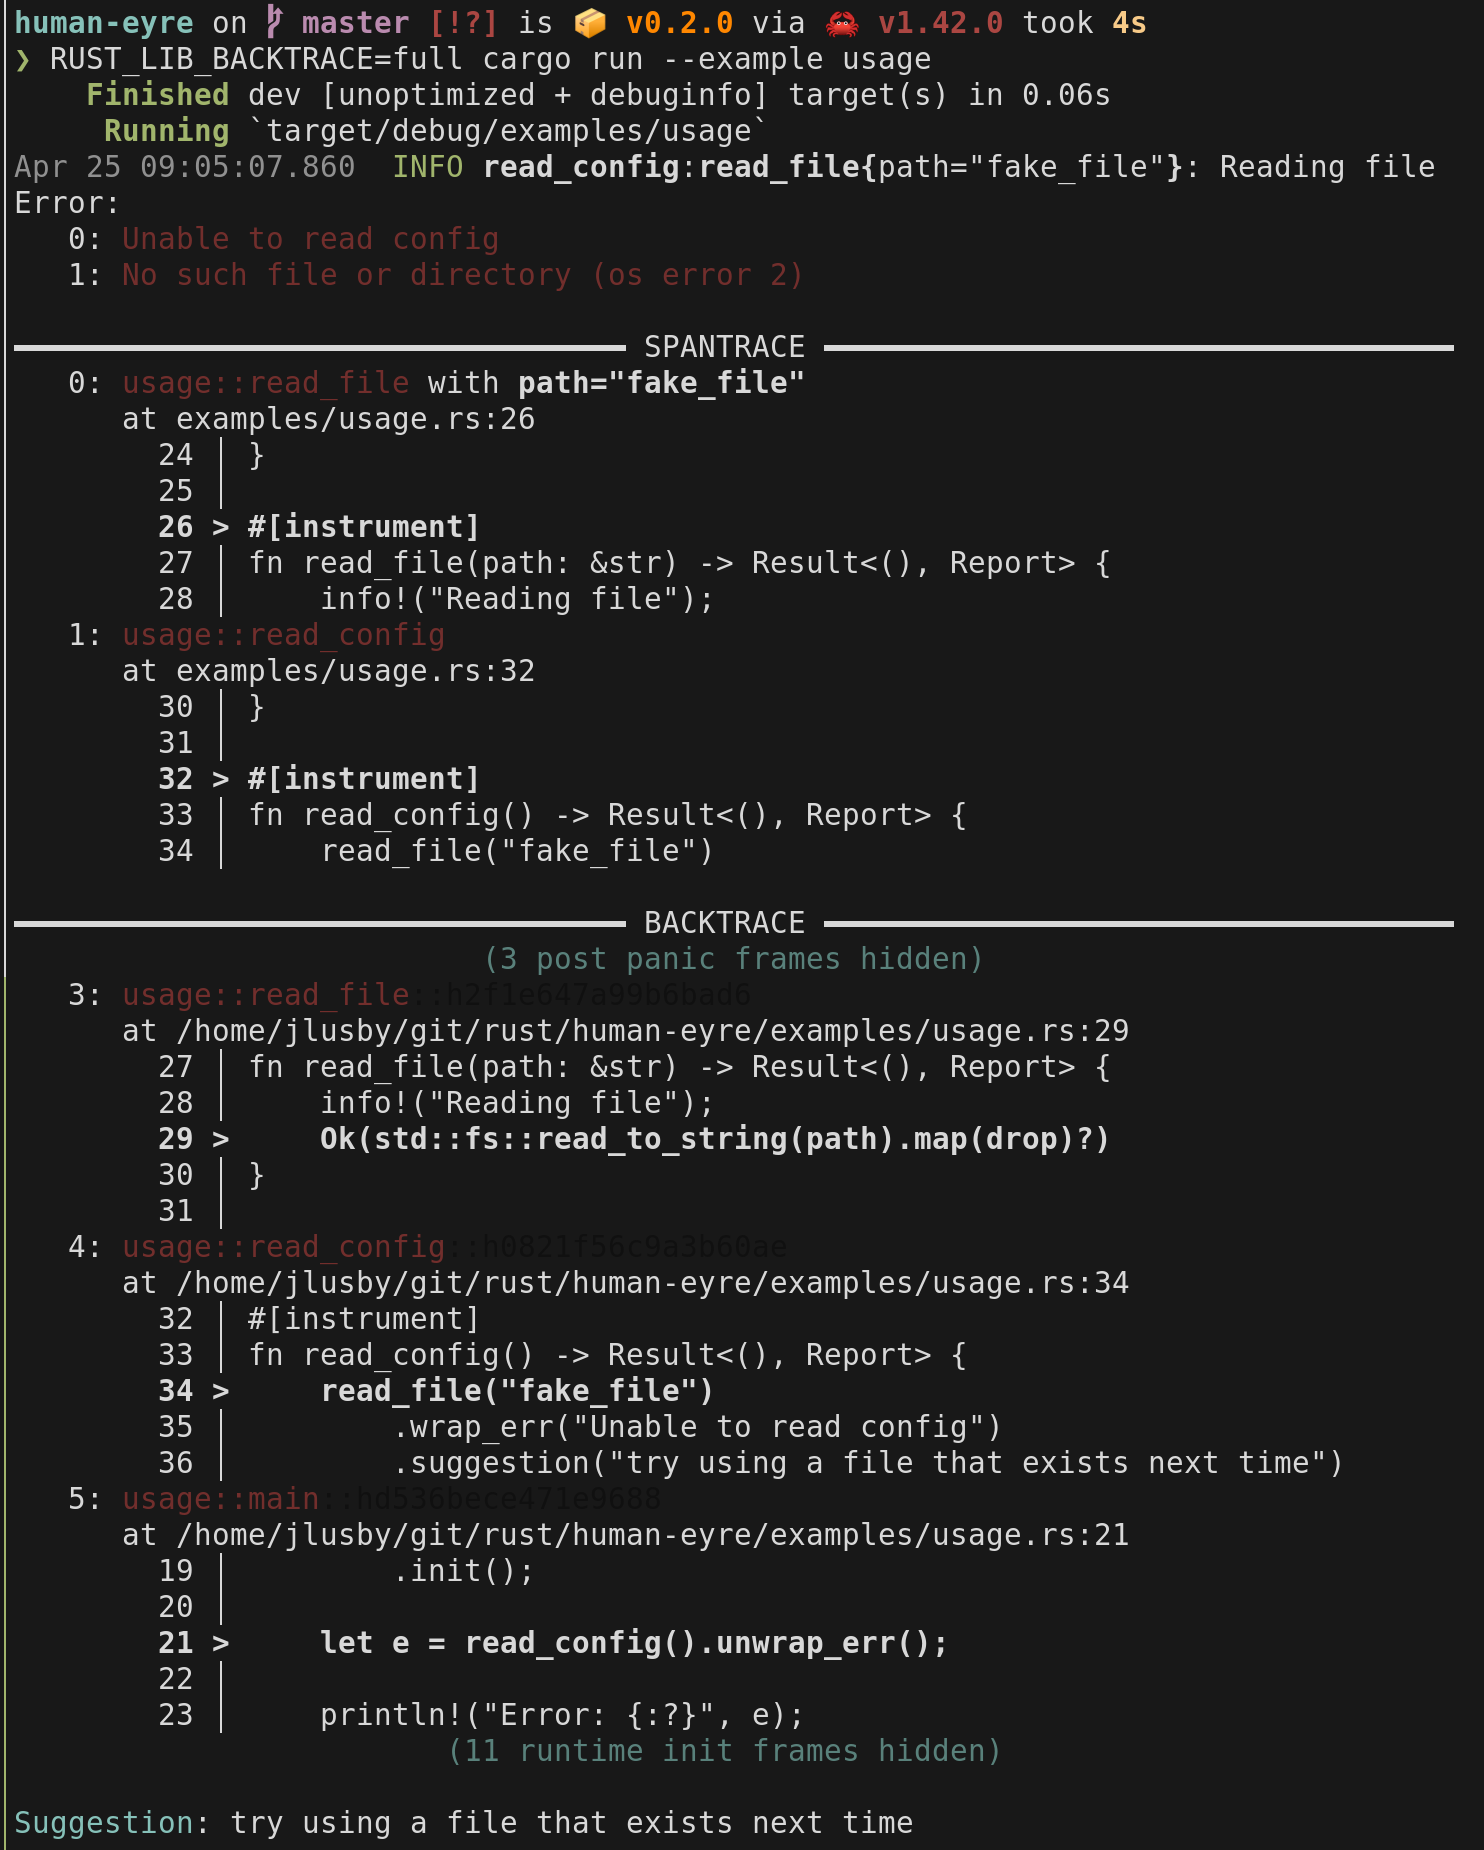
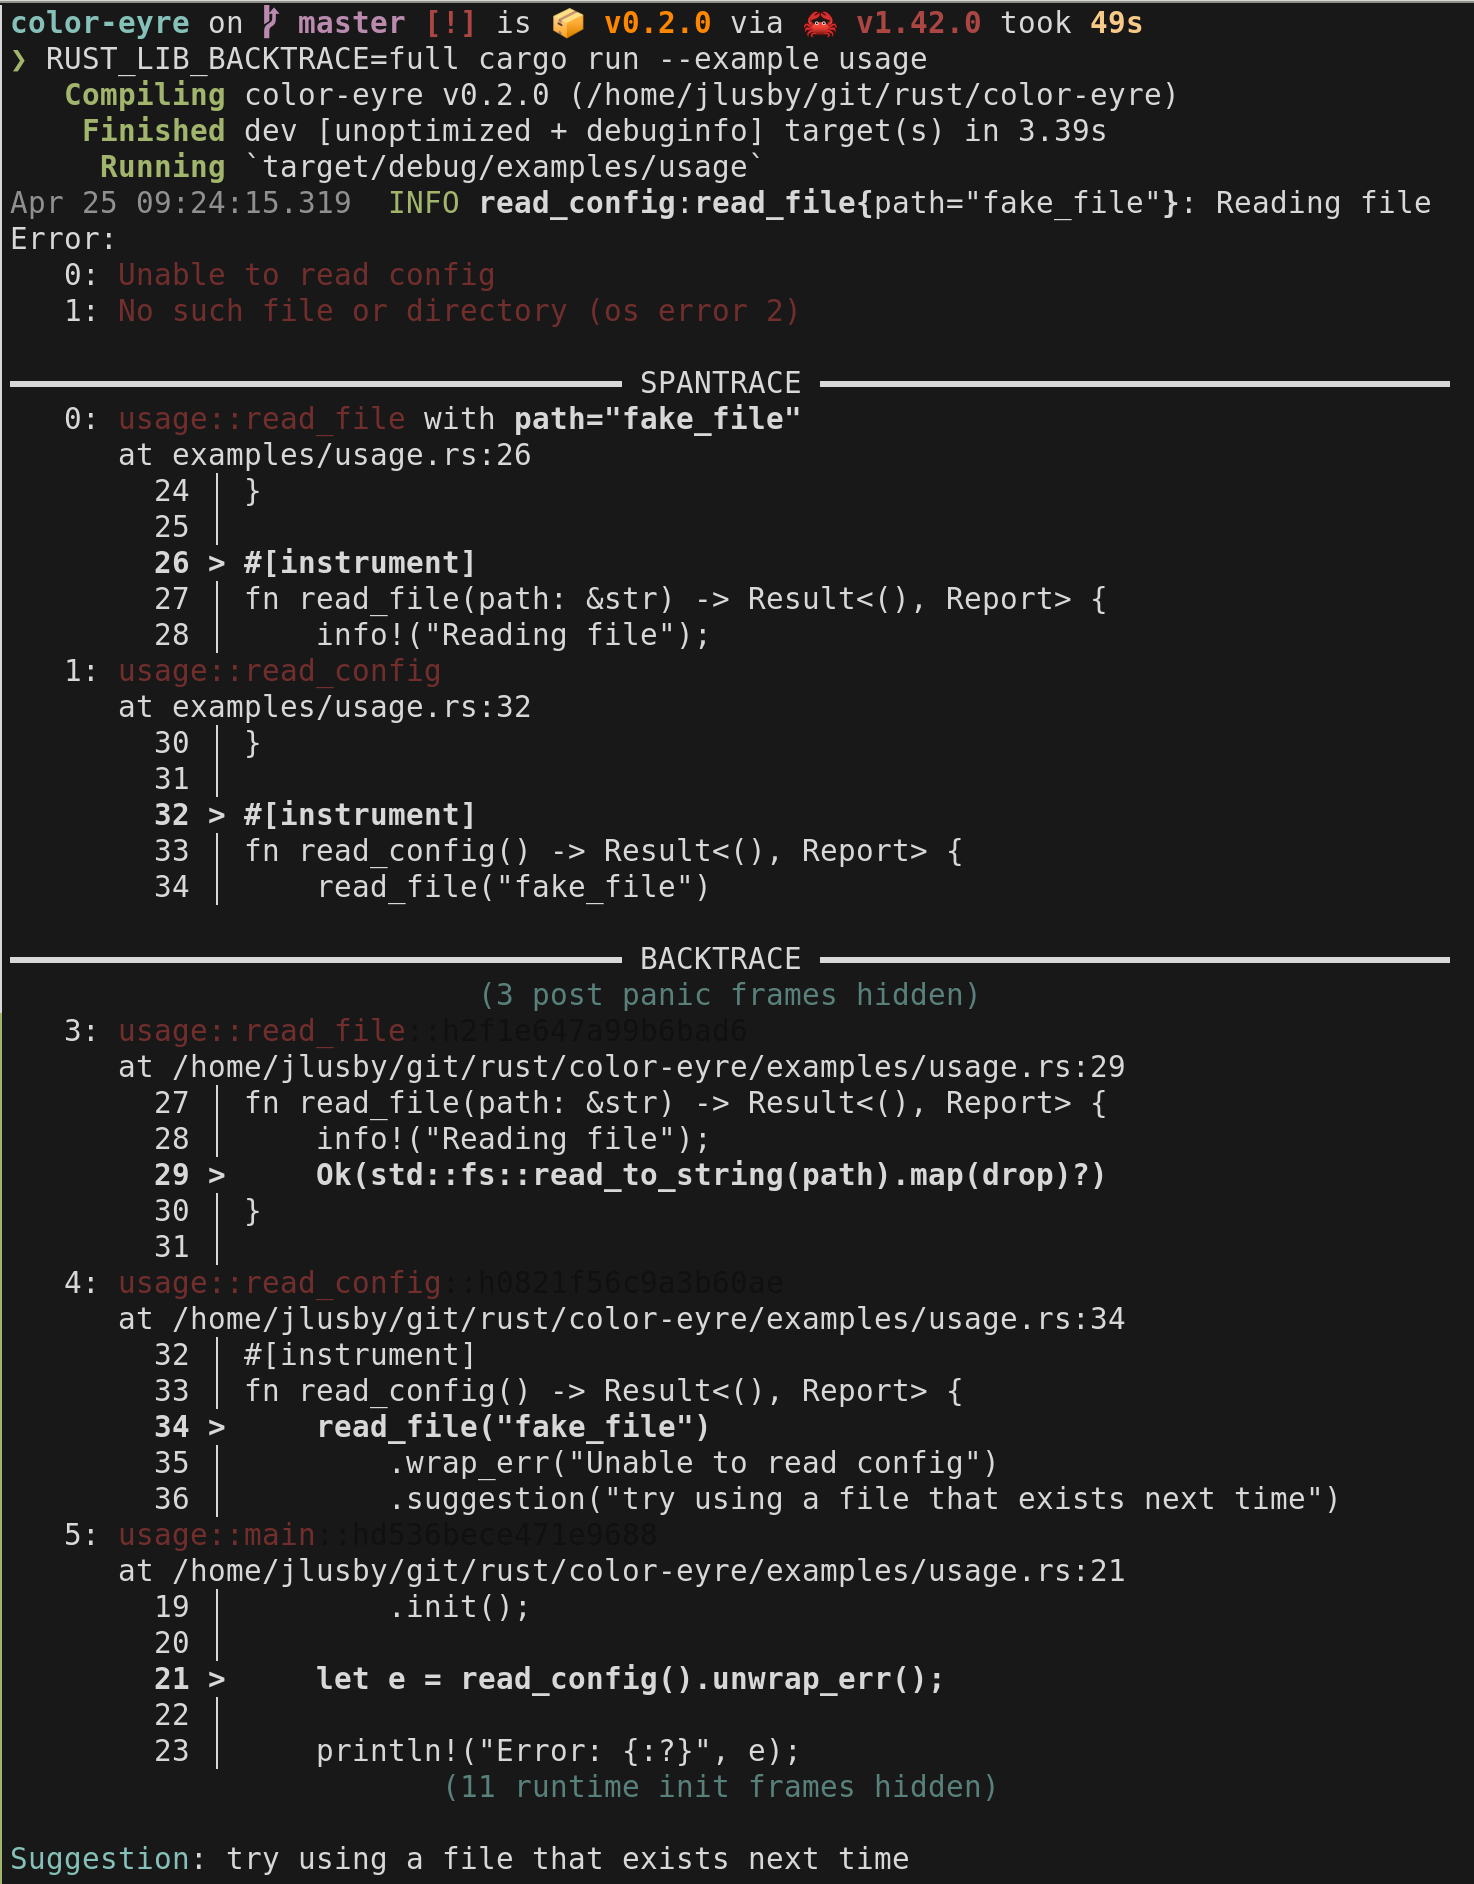
better images again

diff --git a/src/lib.rs b/src/lib.rs
@@ -74,7 +74,11 @@ pub struct Context {
 
 impl EyreContext for Context {
     fn default(error: &(dyn std::error::Error + 'static)) -> Self {
-        let backtrace = if true { Some(Backtrace::new()) } else { None };
+        let backtrace = if std::env::var("RUST_LIB_BACKTRACE").is_ok() {
+            Some(Backtrace::new())
+        } else {
+            None
+        };
 
         let span_trace = if get_deepest_spantrace(error).is_none() {
             Some(SpanTrace::capture())
@@ -131,6 +135,8 @@ impl EyreContext for Context {
                 "{}",
                 color_backtrace::print_backtrace(&backtrace, &settings)
             )?;
+        } else if !self.help.is_empty() {
+            writeln!(f)?;
         }
 
         for help in &self.help {

diff --git a/README.md b/README.md
@@ -31,7 +31,11 @@ fn example(&self) -> color_eyre::Result<()> {
 }
 ```
 
-## Short Report Format
+## Minimal Report Format
+
+![minimal report format](./pictures/minimal.png)
+
+## Short Report Format (with `RUST_LIB_BACKTRACE=1`)
 
 ![short report format](./pictures/short.png)
 
